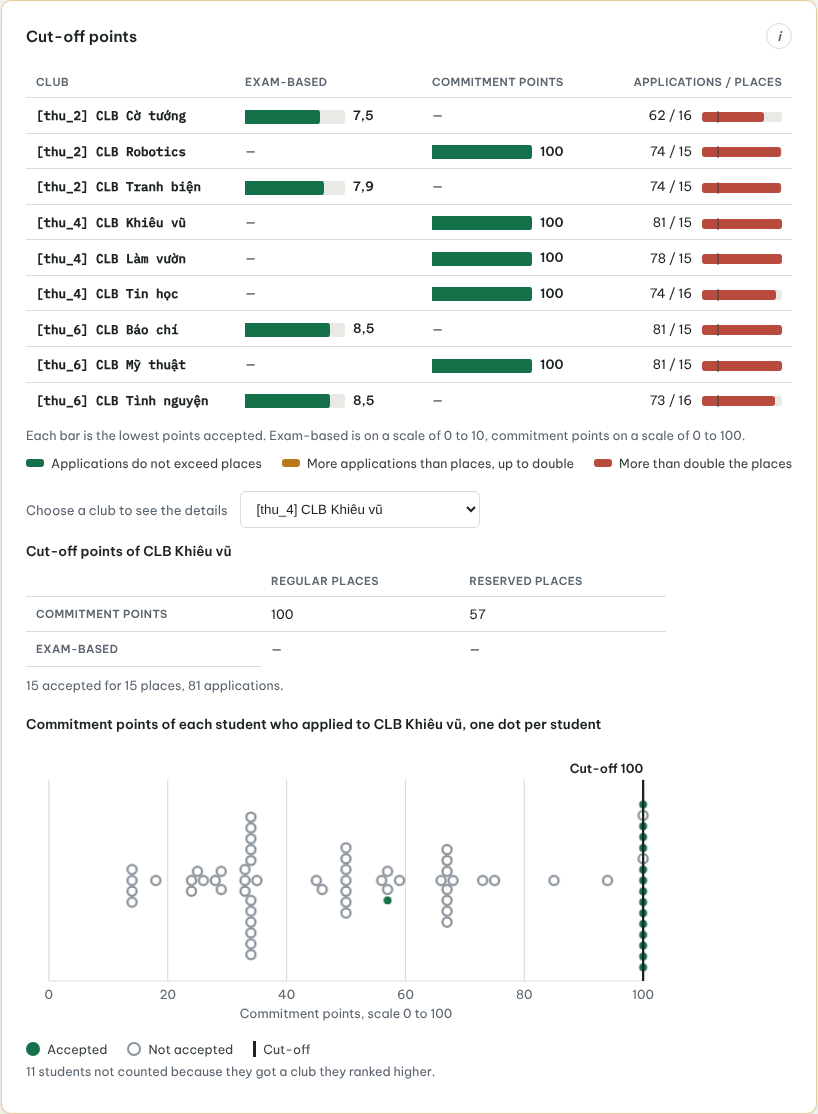
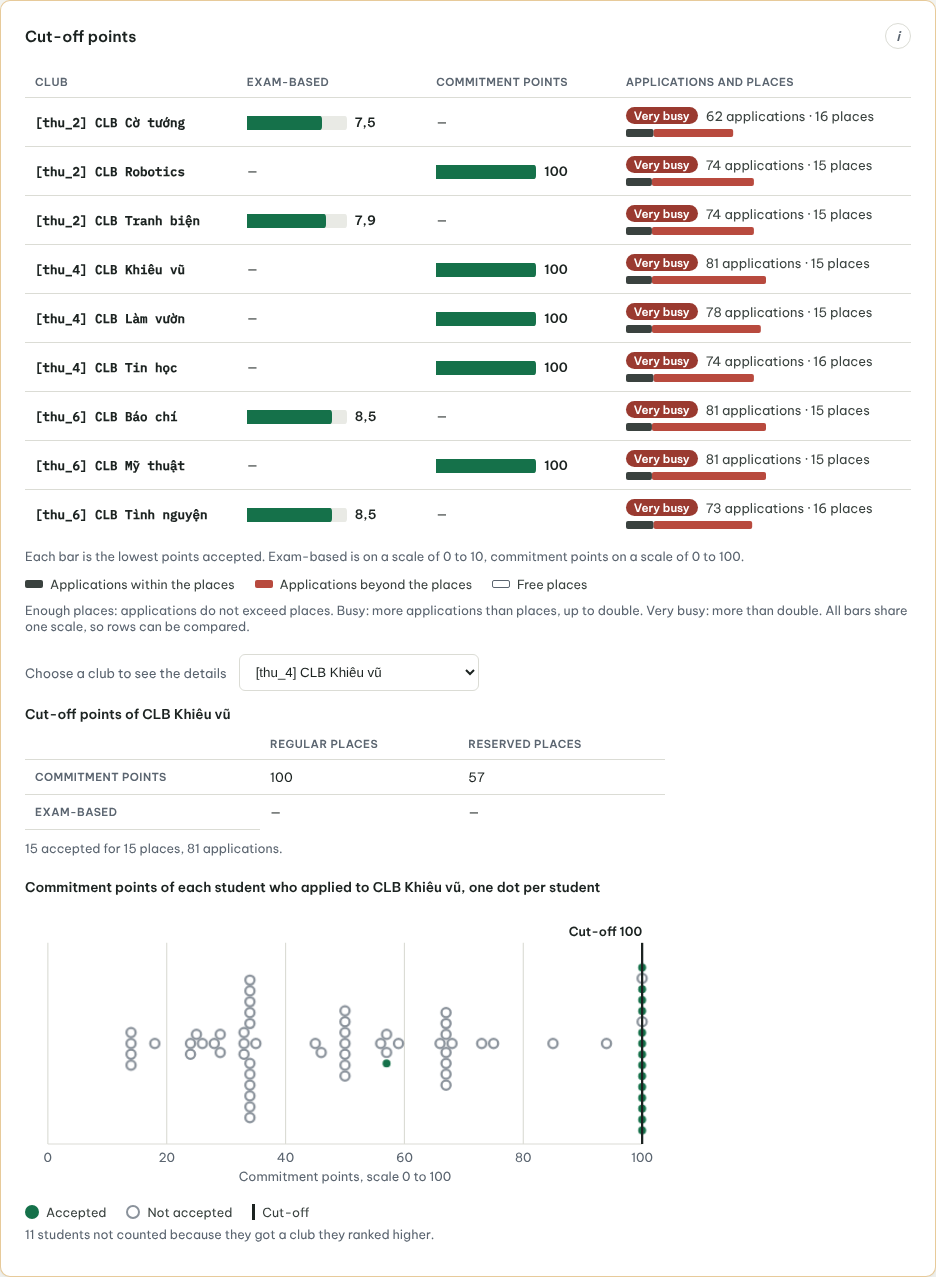
A13.10: làm lại cột Đơn và chỗ (nhãn mức bằng chữ, đơn vị, thanh chung thang); cập nhật test, hướng dẫn, ảnh sau
Claude-Session: https://claude.ai/code/session_01YVAytzsQS746GK6bVDyWHg

diff --git a/js/05_quan_ly.js b/js/05_quan_ly.js
@@ -1444,7 +1444,7 @@ function initTabConQl() {
 
    Hai hình, SVG thuần (chạy ngoại tuyến, không thư viện, không tải gì từ mạng):
      (a) veTongQuanDiemChuan   bảng tổng quan mọi CLB: hai cột điểm chuẩn (xét điểm thi, xét điểm
-         quyết tâm) mỗi ô một thanh, và cột đơn / chỗ có thanh tỉ lệ màu theo mức cạnh tranh;
+         quyết tâm) mỗi ô một thanh, và cột "Đơn và chỗ" có nhãn mức bằng chữ, số đơn và chỗ, thanh chung thang;
      (b) veChiTietDiemChuan    chi tiết MỘT CLB: một biểu đồ dải chấm (beeswarm) có vạch chuẩn.
    Màu: xanh `--chart-general` cho "được nhận", xám `--chart-khong-nhan` cho "không được nhận";
    kênh phụ không dựa vào màu là chấm rỗng và độ dài thanh. Hiệu ứng vào chỉ chạy khi người dùng
@@ -1533,24 +1533,42 @@ function dcThanhDiem(o, tang, r, m, thang) {
   o.appendChild(g);
 }
 
-/* Thanh tỉ lệ đơn / chỗ: dài theo tỉ lệ (tối đa 5 lần chỗ), vạch mốc ở 1 lần, màu theo mức. */
-function dcThanhTiLe(o, r) {
+/* Ô "Đơn và chỗ": dòng trên là nhãn mức bằng chữ và "N đơn · M chỗ"; dòng dưới là thanh dùng chung
+   một thang cho mọi dòng (dài nhất = số lớn nhất giữa đơn và chỗ của cả bảng). Thanh gồm: đơn nằm
+   trong số chỗ (xám đậm), đơn vượt quá số chỗ (màu theo mức), chỗ còn trống (khung rỗng). */
+function dcThanhTiLe(o, r, toiDa) {
   const tiLe = r.suc_chua > 0 ? r.so_don / r.suc_chua : (r.so_don > 0 ? 99 : 0);
   const muc = dcMucCanhTranh(tiLe);
-  const W = 80, H = 10, TOI_DA = 5;
-  const svg = dcSvg("svg", { class: "dc-ti-le", viewBox: `0 0 ${W} ${H}`, role: "img",
-                             "data-muc": muc, "data-ti-le": Math.round(tiLe * 100) / 100 });
-  dcSvg("title", {}, svg).textContent = t("dc_ti_le_nhan", { ten: r.ten, don: r.so_don, cho: r.suc_chua })
-    + ". " + t("dc_ti_le_" + muc);
-  dcSvg("rect", { class: "dc-ti-le-nen", x: 0, y: 0, width: W, height: H, rx: 3 }, svg);
-  const rong = Math.min(tiLe, TOI_DA) / TOI_DA * W;
-  if (rong > 0) dcSvg("rect", { class: "dc-ti-le-do", x: 0, y: 0, width: Math.max(rong, 3), height: H, rx: 3 }, svg);
-  const moc = W / TOI_DA;
-  dcSvg("line", { class: "dc-ti-le-moc", x1: moc, x2: moc, y1: -1, y2: H + 1 }, svg);
+  const tenMuc = t("dc_muc_" + muc);
+  const dong = document.createElement("div");
+  dong.className = "dc-don-dong";
+  const chip = document.createElement("span");
+  chip.className = "dc-chip";
+  chip.dataset.muc = muc;
+  chip.textContent = tenMuc;
+  dong.appendChild(chip);
   const so = document.createElement("span");
   so.className = "dc-don-so";
-  so.textContent = r.so_don + " / " + r.suc_chua;
-  o.appendChild(so);
+  so.textContent = t("dc_don_chu", { don: r.so_don, cho: r.suc_chua });
+  dong.appendChild(so);
+  o.appendChild(dong);
+
+  const W = 140, H = 8;
+  const px = (n) => (n / toiDa) * W;
+  const trong = Math.min(r.so_don, r.suc_chua);
+  const vuot = Math.max(0, r.so_don - r.suc_chua);
+  const con = Math.max(0, r.suc_chua - r.so_don);
+  const svg = dcSvg("svg", { class: "dc-ti-le", viewBox: `0 0 ${W} ${H}`, role: "img",
+                             "data-muc": muc, "data-ti-le": Math.round(tiLe * 100) / 100,
+                             "data-trong": trong, "data-vuot": vuot, "data-con": con });
+  dcSvg("title", {}, svg).textContent = t("dc_ti_le_nhan", {
+    ten: r.ten, don: r.so_don, cho: r.suc_chua, x: dcSo(tiLe), muc: tenMuc });
+  const rong = (n) => (n > 0 ? Math.max(px(n), 2) : 0);
+  const wTrong = rong(trong), wVuot = rong(vuot), wCon = rong(con);
+  if (wTrong) dcSvg("rect", { class: "dc-ti-le-trong", x: 0, y: 0, width: wTrong, height: H, rx: 2 }, svg);
+  if (wVuot) dcSvg("rect", { class: "dc-ti-le-vuot", x: wTrong, y: 0, width: wVuot, height: H, rx: 2 }, svg);
+  if (wCon) dcSvg("rect", { class: "dc-ti-le-con", x: wTrong + 0.5, y: 0.5, width: Math.max(0, wCon - 1),
+                            height: H - 1, rx: 2 }, svg);
   o.appendChild(svg);
 }
 
@@ -1568,6 +1586,7 @@ function veTongQuanDiemChuan(goc, ds) {
   }
   const nhieuBuoi = new Set(ds.map((r) => r.buoi)).size > 1;
   const thangThi = dcThangThi(ds);
+  const toiDaDon = Math.max(1, ...ds.map((r) => Math.max(r.so_don, r.suc_chua)));
   const cuon = document.createElement("div");
   cuon.className = "scroll-x";
   const bang = document.createElement("table");
@@ -1577,7 +1596,7 @@ function veTongQuanDiemChuan(goc, ds) {
   cap.textContent = t("dc_tong_quan_tieu_de");
   bang.appendChild(cap);
   const dau = bang.createTHead().insertRow();
-  [["dc_cot_ten", "", ""], ["dc_tang1", "", "1"], ["dc_tang2", "", "2"], ["dc_cot_don", "num", ""]]
+  [["dc_cot_ten", "", ""], ["dc_tang1", "", "1"], ["dc_tang2", "", "2"], ["dc_cot_don", "", ""]]
     .forEach(([khoa, lop, tang]) => {
       const th = document.createElement("th");
       th.scope = "col";
@@ -1609,8 +1628,8 @@ function veTongQuanDiemChuan(goc, ds) {
     });
 
     const d = tr.insertCell();
-    d.className = "num dc-don";
-    dcThanhTiLe(d, r);
+    d.className = "dc-don";
+    dcThanhTiLe(d, r, toiDaDon);
   });
   cuon.appendChild(bang);
   goc.appendChild(cuon);
@@ -1618,8 +1637,11 @@ function veTongQuanDiemChuan(goc, ds) {
   ghi.className = "hint-text";
   ghi.textContent = t("dc_chu_giai_thanh", { thi: thangThi });
   goc.appendChild(ghi);
-  dcChuGiai(goc, [["is-ti-thap", "dc_ti_le_thap"], ["is-ti-vua", "dc_ti_le_vua"],
-                  ["is-ti-cao", "dc_ti_le_cao"]]);
+  dcChuGiai(goc, [["is-ti-trong", "dc_bar_trong"], ["is-ti-vuot", "dc_bar_vuot"], ["is-ti-con", "dc_bar_con"]]);
+  const giai = document.createElement("p");
+  giai.className = "hint-text";
+  giai.textContent = t("dc_muc_giai_thich");
+  goc.appendChild(giai);
 }
 
 /* Thang ngang 0 đến 100 dùng chung cho (a) và (b). */

diff --git a/style.css b/style.css
@@ -2908,19 +2908,24 @@ tr.ws-dang-mo td { background: var(--moss-soft); }
 .dc-gtri { display: inline-block; min-width: 3.4em; margin-left: 8px; font-weight: 600; }
 .dc-svg .dc-vung-nhan { fill: var(--chart-general); fill-opacity: 0.08; }
 .dc-svg .dc-cham { transition: none; }
-.dc-mau.is-ti-thap, .dc-mau.is-ti-vua, .dc-mau.is-ti-cao { width: 18px; height: 8px; border-radius: 3px; }
-.dc-mau.is-ti-thap { background: var(--chart-general); }
-.dc-mau.is-ti-vua { background: var(--chart-reserve); }
-.dc-mau.is-ti-cao { background: var(--chart-nong); }
+.dc-mau.is-ti-trong, .dc-mau.is-ti-vuot, .dc-mau.is-ti-con { width: 18px; height: 8px; border-radius: 2px; }
+.dc-mau.is-ti-trong { background: var(--ink-soft); }
+.dc-mau.is-ti-vuot { background: var(--chart-nong); }
+.dc-mau.is-ti-con { border: 1px solid var(--slate); background: transparent; }
 .dc-tq th[data-tang], .dc-tq td[data-tang] { white-space: nowrap; }
-.dc-tq .dc-don { white-space: nowrap; }
-.dc-don-so { display: inline-block; min-width: 4.4em; text-align: right; margin-right: 10px; font-variant-numeric: tabular-nums; }
-.dc-ti-le { width: 80px; height: 10px; vertical-align: middle; overflow: visible; }
-.dc-ti-le .dc-ti-le-nen { fill: var(--paper-hover); }
-.dc-ti-le .dc-ti-le-moc { stroke: var(--ink-soft); stroke-width: 1; }
-.dc-ti-le[data-muc="thap"] .dc-ti-le-do { fill: var(--chart-general); }
-.dc-ti-le[data-muc="vua"] .dc-ti-le-do { fill: var(--chart-reserve); }
-.dc-ti-le[data-muc="cao"] .dc-ti-le-do { fill: var(--chart-nong); }
+.dc-tq td.dc-don { text-align: left; min-width: 190px; }
+.dc-don-dong { display: flex; align-items: center; gap: 8px; margin-bottom: 5px; white-space: nowrap; }
+.dc-don-so { font-variant-numeric: tabular-nums; color: var(--ink-soft); font-size: 13px; }
+.dc-chip { display: inline-block; min-width: 4.8em; padding: 1px 8px; border-radius: 10px; font-size: 11.5px; font-weight: 600; text-align: center; color: #fff; }
+.dc-chip[data-muc="thap"] { background: var(--chart-general); }
+.dc-chip[data-muc="vua"] { background: var(--gold-text); }
+.dc-chip[data-muc="cao"] { background: var(--rust-text); }
+.dc-ti-le { display: block; width: 140px; height: 8px; overflow: visible; }
+.dc-ti-le .dc-ti-le-trong { fill: var(--ink-soft); }
+.dc-ti-le .dc-ti-le-con { fill: none; stroke: var(--slate); stroke-width: 1; }
+.dc-ti-le[data-muc="thap"] .dc-ti-le-vuot { fill: var(--chart-general); }
+.dc-ti-le[data-muc="vua"] .dc-ti-le-vuot { fill: var(--chart-reserve); }
+.dc-ti-le[data-muc="cao"] .dc-ti-le-vuot { fill: var(--chart-nong); }
 /* Chấm vào dần; người dùng bật "giảm chuyển động" thì không có hiệu ứng nào. */
 @keyframes dc-hien { from { opacity: 0; } to { opacity: 1; } }
 @media (prefers-reduced-motion: no-preference) {
@@ -2932,14 +2937,14 @@ tr.ws-dang-mo td { background: var(--moss-soft); }
   :root:not([data-theme="light"]) #adminDiemChuanBlock, :root:not([data-theme="light"]) #dcKqPanel {
     --ink: #E8ECE9; --ink-soft: #C6CEC9; --slate: #A3ADA8; --paper-raised: #1B2320;
     --paper-hover: #27312D; --hairline: #37423D; --chart-general: #3FBF86; --chart-reserve: #E0A63A;
-    --chart-khong-nhan: #9AA3AD; --chart-nong: #E8776A; --focus-ring: #7FB0F5;
+    --chart-khong-nhan: #9AA3AD; --chart-nong: #E8776A; --focus-ring: #7FB0F5; --gold-text: #8A6A1E; --rust-text: #B5483C;
     background: #1B2320; color: var(--ink);
   }
 }
 :root[data-theme="dark"] #adminDiemChuanBlock, :root[data-theme="dark"] #dcKqPanel {
   --ink: #E8ECE9; --ink-soft: #C6CEC9; --slate: #A3ADA8; --paper-raised: #1B2320;
   --paper-hover: #27312D; --hairline: #37423D; --chart-general: #3FBF86; --chart-reserve: #E0A63A;
-  --chart-khong-nhan: #9AA3AD; --chart-nong: #E8776A; --focus-ring: #7FB0F5;
+  --chart-khong-nhan: #9AA3AD; --chart-nong: #E8776A; --focus-ring: #7FB0F5; --gold-text: #8A6A1E; --rust-text: #B5483C;
   background: #1B2320; color: var(--ink);
 }
 .dc-chon .text-input { background: var(--paper-raised); color: var(--ink); border-color: var(--hairline); }

diff --git a/i18n.js b/i18n.js
@@ -631,11 +631,16 @@
       dc_chua_co_ket_qua: "Chưa có kết quả. Hãy chạy sắp xếp trước.",
       dc_tong_quan_tieu_de: "Tổng quan các {slot_sl}",
       dc_cot_ten: "{slot_sl}",
-      dc_cot_don: "Đơn / chỗ",
-      dc_ti_le_thap: "Đơn không nhiều hơn chỗ",
-      dc_ti_le_vua: "Đơn nhiều hơn chỗ, đến gấp đôi",
-      dc_ti_le_cao: "Đơn nhiều hơn gấp đôi chỗ",
-      dc_ti_le_nhan: "{ten}: {don} đơn cho {cho} chỗ",
+      dc_cot_don: "Đơn và chỗ",
+      dc_ti_le_nhan: "{ten}: {don} đơn cho {cho} chỗ, trung bình {x} đơn cho mỗi chỗ. Mức: {muc}.",
+      dc_muc_thap: "Đủ chỗ",
+      dc_muc_vua: "Đông",
+      dc_muc_cao: "Rất đông",
+      dc_don_chu: "{don} đơn · {cho} chỗ",
+      dc_bar_trong: "Đơn nằm trong số chỗ",
+      dc_bar_vuot: "Đơn vượt quá số chỗ",
+      dc_bar_con: "Chỗ còn trống",
+      dc_muc_giai_thich: "Đủ chỗ: đơn không nhiều hơn chỗ. Đông: đơn nhiều hơn chỗ, đến gấp đôi. Rất đông: đơn nhiều hơn gấp đôi chỗ. Các thanh dùng chung một thang nên so được giữa các dòng.",
       dc_cot_buoi: "{session}",
       dc_chu_giai_thanh: "Thanh dài là điểm thấp nhất đã được nhận. Xét điểm thi tính trên thang 0 đến {thi}, xét điểm quyết tâm trên thang 0 đến 100.",
       dc_thanh_nhan: "Điểm chuẩn {cach} của {ten}: {x}",
@@ -1286,11 +1291,16 @@
       dc_chua_co_ket_qua: "No results yet. Run the allocation first.",
       dc_tong_quan_tieu_de: "Overview of all {slot_pl}",
       dc_cot_ten: "{slot}",
-      dc_cot_don: "Applications / places",
-      dc_ti_le_thap: "Applications do not exceed places",
-      dc_ti_le_vua: "More applications than places, up to double",
-      dc_ti_le_cao: "More than double the places",
-      dc_ti_le_nhan: "{ten}: {don} applications for {cho} places",
+      dc_cot_don: "Applications and places",
+      dc_ti_le_nhan: "{ten}: {don} applications for {cho} places, {x} applications per place. Level: {muc}.",
+      dc_muc_thap: "Enough places",
+      dc_muc_vua: "Busy",
+      dc_muc_cao: "Very busy",
+      dc_don_chu: "{don} applications · {cho} places",
+      dc_bar_trong: "Applications within the places",
+      dc_bar_vuot: "Applications beyond the places",
+      dc_bar_con: "Free places",
+      dc_muc_giai_thich: "Enough places: applications do not exceed places. Busy: more applications than places, up to double. Very busy: more than double. All bars share one scale, so rows can be compared.",
       dc_cot_buoi: "{session}",
       dc_chu_giai_thanh: "Each bar is the lowest points accepted. Exam-based is on a scale of 0 to {thi}, commitment points on a scale of 0 to 100.",
       dc_thanh_nhan: "Cut-off ({cach}) of {ten}: {x}",

diff --git a/tests/test_giao_dien_a13_10_diem_chuan.py b/tests/test_giao_dien_a13_10_diem_chuan.py
@@ -69,7 +69,7 @@ def test_bang_co_hai_cot_diem_chuan_rieng_moi_o_co_thanh(mo):
     page, loi = mo()
     th = page.locator("#dcQlTongQuan thead th")
     chu = [x.strip() for x in th.all_inner_texts()]
-    assert [c.lower() for c in chu] == ["clb", "xét điểm thi", "xét điểm quyết tâm", "đơn / chỗ"], chu
+    assert [c.lower() for c in chu] == ["clb", "xét điểm thi", "xét điểm quyết tâm", "đơn và chỗ"], chu
     assert page.locator('#dcQlTongQuan th[data-tang="1"]').count() == 1
     assert page.locator('#dcQlTongQuan th[data-tang="2"]').count() == 1
     a = page.locator('#dcQlTongQuan tr[data-club-id="A"]')
@@ -91,23 +91,36 @@ def test_bang_khong_con_dong_chu_nho_duoi_ten_clb(mo):
     assert not loi, loi
 
 
-def test_don_tren_cho_la_thanh_ti_le_mau_theo_muc_khong_con_cham_do(mo):
+def test_don_va_cho_co_nhan_muc_bang_chu_so_ro_don_vi_va_thanh_chung_thang(mo):
     page, loi = mo()
     assert page.locator("#dcQlTongQuan .dc-nong").count() == 0
-    muc = {}
-    for cid in ("A", "B", "C"):
+    th = page.locator("#dcQlTongQuan thead th").nth(3).inner_text().strip().lower()
+    assert th == "đơn và chỗ", th
+    # A: 8 đơn cho 4 chỗ (gấp 2, "Đông"); B: 8 đơn cho 10 chỗ ("Đủ chỗ"); C: 0 đơn cho 3 chỗ
+    mong = {"A": ("Đông", "8 đơn · 4 chỗ", "vua", (4, 4, 0)),
+            "B": ("Đủ chỗ", "8 đơn · 10 chỗ", "thap", (8, 0, 2)),
+            "C": ("Đủ chỗ", "0 đơn · 3 chỗ", "thap", (0, 0, 3))}
+    mau = {}
+    for cid, (nhan, chu, muc, (trong, vuot, con)) in mong.items():
         o = page.locator('#dcQlTongQuan tr[data-club-id="%s"] td.dc-don' % cid)
+        assert o.locator(".dc-chip").inner_text().strip() == nhan
+        assert o.locator(".dc-chip").get_attribute("data-muc") == muc
+        assert o.locator(".dc-don-so").inner_text().strip() == chu
         svg = o.locator("svg.dc-ti-le")
-        assert svg.count() == 1 and svg.locator("title").text_content().strip()
-        muc[cid] = svg.get_attribute("data-muc")
-    # A: 8 đơn / 4 chỗ = 2,0 ; B: 8 / 10 ; C: 0 / 3
-    assert muc == {"A": "vua", "B": "thap", "C": "thap"}, muc
-    assert page.locator('#dcQlTongQuan tr[data-club-id="A"] td.dc-don').inner_text().strip() == "8 / 4"
-    mau = page.evaluate("""() => ['A','B'].map(c => getComputedStyle(document.querySelector(
-        '#dcQlTongQuan tr[data-club-id="' + c + '"] svg.dc-ti-le .dc-ti-le-do')).fill)""")
-    assert mau[0] != mau[1], mau                               # hai mức, hai màu
-    # chú giải mức
-    assert page.locator("#dcQlTongQuan .dc-chu-giai li").count() >= 3
+        assert svg.get_attribute("data-muc") == muc and svg.locator("title").text_content().strip()
+        assert tuple(int(svg.get_attribute("data-" + k)) for k in ("trong", "vuot", "con")) == (trong, vuot, con)
+        mau[cid] = o.locator(".dc-chip").evaluate("e => getComputedStyle(e).backgroundColor")
+    assert mau["A"] != mau["B"] and mau["B"] == mau["C"], mau          # mức khác nhau, màu khác nhau
+    # cùng một thang: đơn dài gấp đôi thì thanh dài gấp đôi (A: 8 đơn, B: 8 đơn, cùng tổng "trong + vuot")
+    dai = page.evaluate("""() => ['A','B'].map(c => [...document.querySelectorAll(
+        '#dcQlTongQuan tr[data-club-id="' + c + '"] svg.dc-ti-le rect.dc-ti-le-trong, '
+        + '#dcQlTongQuan tr[data-club-id="' + c + '"] svg.dc-ti-le rect.dc-ti-le-vuot')]
+        .reduce((t, r) => t + (+r.getAttribute('width')), 0))""")
+    assert dai[0] == pytest.approx(dai[1], abs=0.5), dai
+    # chú giải: ba phần của thanh và lời giải thích ba mức
+    assert page.locator("#dcQlTongQuan .dc-chu-giai li").count() == 3
+    chu = page.locator("#dcQlTongQuan").inner_text()
+    assert "Đủ chỗ:" in chu and "Rất đông:" in chu
     assert not loi, loi
 
 

diff --git a/CHANGELOG.md b/CHANGELOG.md
@@ -5,10 +5,10 @@
 Theo yêu cầu của Truong (duyệt ba điểm: sửa bộ chọn test giao diện cũ; biểu đồ chỉ khối Điểm chuẩn tự đổi nền tối vì ứng dụng chưa có giao diện tối chung; EN dùng "commitment points" trong cả khối). Chỉ đổi cách hiện; API `get_diem_chuan` / `get_diem_chuan_clb`, schema, hợp đồng cột CSV, thuật toán và kết quả xếp KHÔNG đổi. Mô phỏng.
 - **1. Nhãn hiển thị:** "Tầng 1" thành "Xét điểm thi" / "Exam-based", "Tầng 2" thành "Xét điểm quyết tâm" / "Commitment points" ở giao diện (`i18n.js`, khoá `dc_*`, VI và EN), tệp xuất Excel (`api_xuat.py`: tiêu đề cột và mô tả trang Điểm chuẩn) và hướng dẫn (`HUONG_DAN_SU_DUNG.md`, `README.md`, `TAI_LIEU_DU_LIEU.md`, `GIAI_THICH_DE_HIEU.html`, `BAO_CAO_CACH_CHAY.html`, `mau_csv/vi_du_day_du/GIAI_THICH.md`). Nơi cần danh từ thì ghi "nhóm xét điểm thi / nhóm xét điểm quyết tâm". Mã, biến, cột, mã lỗi giữ `tier`, `tang1`, `tang2`. Chưa đổi: `poster/`, chú thích trong `.py`, `BAN_GIAO.md` và các tài liệu kế hoạch nội bộ.
 - **2a. Bảng tổng** (`js/05_quan_ly.js`, `veTongQuanDiemChuan`): hai cột điểm chuẩn riêng, mỗi ô một thanh SVG (thang điểm thi 10 / 100 tự chọn theo dữ liệu, điểm quyết tâm 0 đến 100); bỏ dòng chữ nhỏ dưới tên CLB (mã `dc-phu`).
-- **2b. Đơn / chỗ:** số kèm thanh tỉ lệ nhỏ (tối đa 5 lần chỗ, vạch mốc ở 1 lần), màu theo mức: xanh đến 1, vàng đến 2, đỏ trên 2 (`data-muc` = `thap` / `vua` / `cao`); thay chấm đỏ. Chú giải ba mức.
+- **2b. Đơn và chỗ (làm lại sau góp ý của Truong: bản đầu khó hiểu):** cột "Đơn và chỗ" có nhãn mức bằng chữ (`dc-chip`: Đủ chỗ / Đông / Rất đông, `data-muc` = `thap` / `vua` / `cao`, ngưỡng đơn / chỗ 1 và 2), "N đơn · M chỗ" có đơn vị, và một thanh chung một thang cho cả bảng gồm ba phần: đơn nằm trong số chỗ (xám đậm), đơn vượt chỗ (màu theo mức), chỗ còn trống (khung rỗng); chú giải ba phần và một câu giải thích ba mức. Bỏ thanh tối đa 5 lần chỗ có vạch mốc và các khoá `dc_ti_le_thap/vua/cao`; khoá mới `dc_muc_*`, `dc_don_chu`, `dc_bar_*`, `dc_muc_giai_thich`. Thay chấm đỏ.
 - **2c. Chi tiết một CLB:** histogram và dải chấm cũ gộp thành MỘT SVG beeswarm (`veChiTietDiemChuan`, `svg[data-bieu-do=chi-tiet]`): chấm cùng điểm xếp cột không chồng nhau, vạch chuẩn ghi số, vùng nhạt bên phải vạch là vùng được nhận, chấm đặc xanh được nhận / chấm rỗng xám không được nhận, chú giải ba mục, tooltip và bảng chữ ẩn giữ nguyên. Xoá `veCotPhanBoQuyetTam`, `veDaiChamQuyetTam`, `dcCotTronTren` và khoá i18n không còn dùng (`dc_cot_chuan`, `dc_nong`, `dc_cot_tieu_de`, `dc_truc_y`, `dc_tooltip_khoang`, `dc_tooltip_so`); khoá mới `dc_ti_le_*`.
 - **Sáng / tối, chuyển động** (`style.css`): màu qua biến; `prefers-color-scheme: dark` (và `[data-theme=dark]`) chỉ đổi khối Điểm chuẩn sang nền tối; hiệu ứng chấm vào dần chỉ chạy khi `prefers-reduced-motion: no-preference`. Không thư viện ngoài.
-- **Test mới:** `tests/test_giao_dien_a13_10_nhan.py` (5 ca: nhãn VI / EN, khoá `dc_*`, tài liệu) và `tests/test_giao_dien_a13_10_diem_chuan.py` (9 ca: hai cột, bỏ chữ phụ, thanh tỉ lệ và màu, một SVG, chấm không chồng, chú giải và tooltip, reduced-motion, chế độ tối, EN). **Test cũ sửa có duyệt:** `tests/test_giao_dien_diem_chuan.py` đổi bộ chọn (`svg[data-bieu-do=cot|cham]`, `#dcCot`, `#dcCham` thành `svg[data-bieu-do=chi-tiet]`, `#dcBieuDo`; hai test (a), (b) gộp một); `tests/test_diem_chuan.py` đổi chữ tiêu đề cột Excel.
+- **Test mới:** `tests/test_giao_dien_a13_10_nhan.py` (5 ca: nhãn VI / EN, khoá `dc_*`, tài liệu) và `tests/test_giao_dien_a13_10_diem_chuan.py` (9 ca: hai cột, bỏ chữ phụ, nhãn mức / đơn vị / thang chung của cột Đơn và chỗ, một SVG, chấm không chồng, chú giải và tooltip, reduced-motion, chế độ tối, EN). **Test cũ sửa có duyệt:** `tests/test_giao_dien_diem_chuan.py` đổi bộ chọn (`svg[data-bieu-do=cot|cham]`, `#dcCot`, `#dcCham` thành `svg[data-bieu-do=chi-tiet]`, `#dcBieuDo`; hai test (a), (b) gộp một); `tests/test_diem_chuan.py` đổi chữ tiêu đề cột Excel.
 - **Ảnh trước / sau:** `docs/anh/a13_10/{truoc,sau}_{vi,en}_{sang,toi}.png` từ `du_lieu_test/SO_NHAP_DQT_120HS_HOP_LE.xlsx`, seed 3, chụp bằng `docs/anh/a13_10/chup_anh.py`. Ảnh "trước" có "Tầng 1/2" vì chụp từ bản gốc; ứng dụng chưa có giao diện tối chung nên ảnh "tối" chỉ khác ở khối Điểm chuẩn.
 
 ## 2026-10-28 — A13.9 Sửa 9 vấn đề từ đợt stress test

diff --git a/HUONG_DAN_SU_DUNG.md b/HUONG_DAN_SU_DUNG.md
@@ -1055,8 +1055,7 @@ Khi đã bật điểm quyết tâm và đã chạy xếp, quản trị xem đư
   quan mọi CLB. Phần mềm không nhớ trạng thái mở.
 - **Bảng tổng quan.** Mỗi CLB một dòng, có hai cột điểm chuẩn riêng: **Xét điểm thi** (thanh trên thang điểm thi, thường
   là 10) và **Xét điểm quyết tâm** (thanh trên thang 0 đến 100). Mỗi thanh là điểm thấp nhất đã được nhận. Ô "—": CLB
-  chưa có ai ở cách xét đó. Cột **Đơn / chỗ** có số đơn trên số chỗ và một thanh nhỏ: vạch đứng là mốc đơn bằng chỗ;
-  thanh xanh là đơn không nhiều hơn chỗ, vàng là nhiều hơn đến gấp đôi, đỏ là nhiều hơn gấp đôi.
+  chưa có ai ở cách xét đó. Cột **Đơn và chỗ** có một nhãn mức bằng chữ (**Đủ chỗ**: đơn không nhiều hơn chỗ; **Đông**: đơn nhiều hơn chỗ, đến gấp đôi; **Rất đông**: nhiều hơn gấp đôi), số đơn và số chỗ ghi rõ đơn vị ("62 đơn · 16 chỗ"), và một thanh dùng chung một thang cho cả bảng nên so được giữa các CLB: phần xám đậm là đơn nằm trong số chỗ, phần màu là đơn vượt quá số chỗ, khung rỗng là chỗ còn trống.
 - **Tab Quản lý.** Khối **Điểm chuẩn** có bảng tổng quan, hộp chọn một CLB, bảng hai cách xét x hai mức và **một biểu đồ
   dải chấm**: mỗi em xin vào CLB đó là một chấm đặt theo điểm quyết tâm (đặc xanh là được nhận, rỗng xám là không được
   nhận; chấm cùng điểm xếp thành cột; di chuột hoặc chạm vào chấm để xem mã học sinh và điểm). Vạch đứng ghi số là điểm
